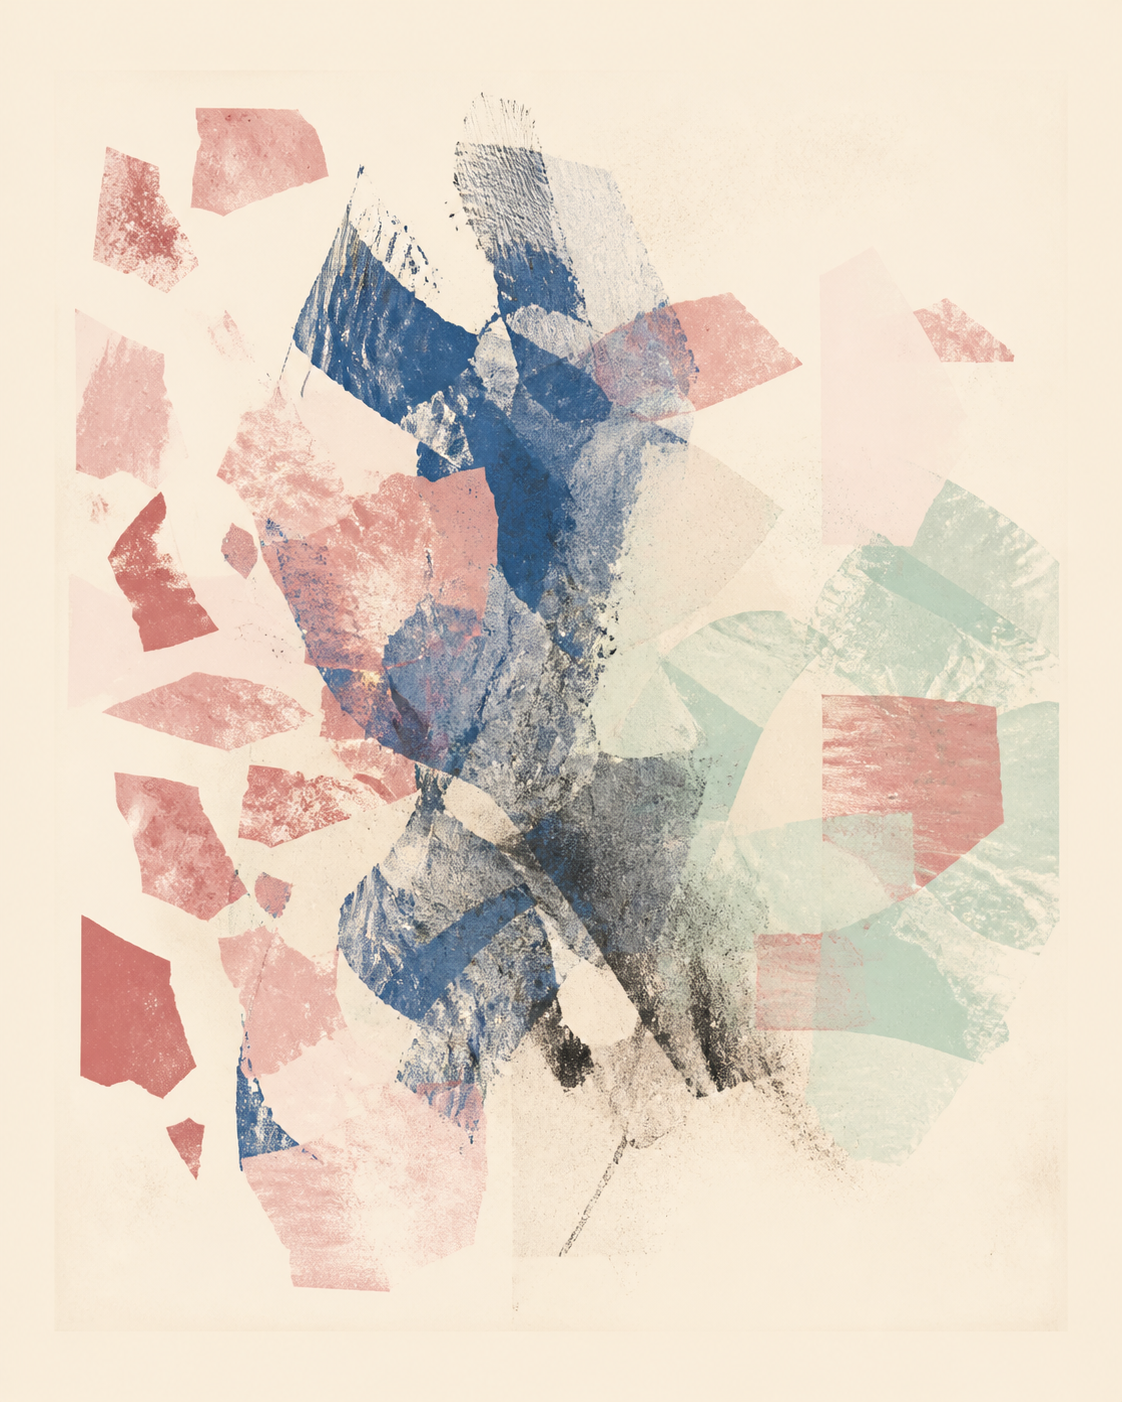
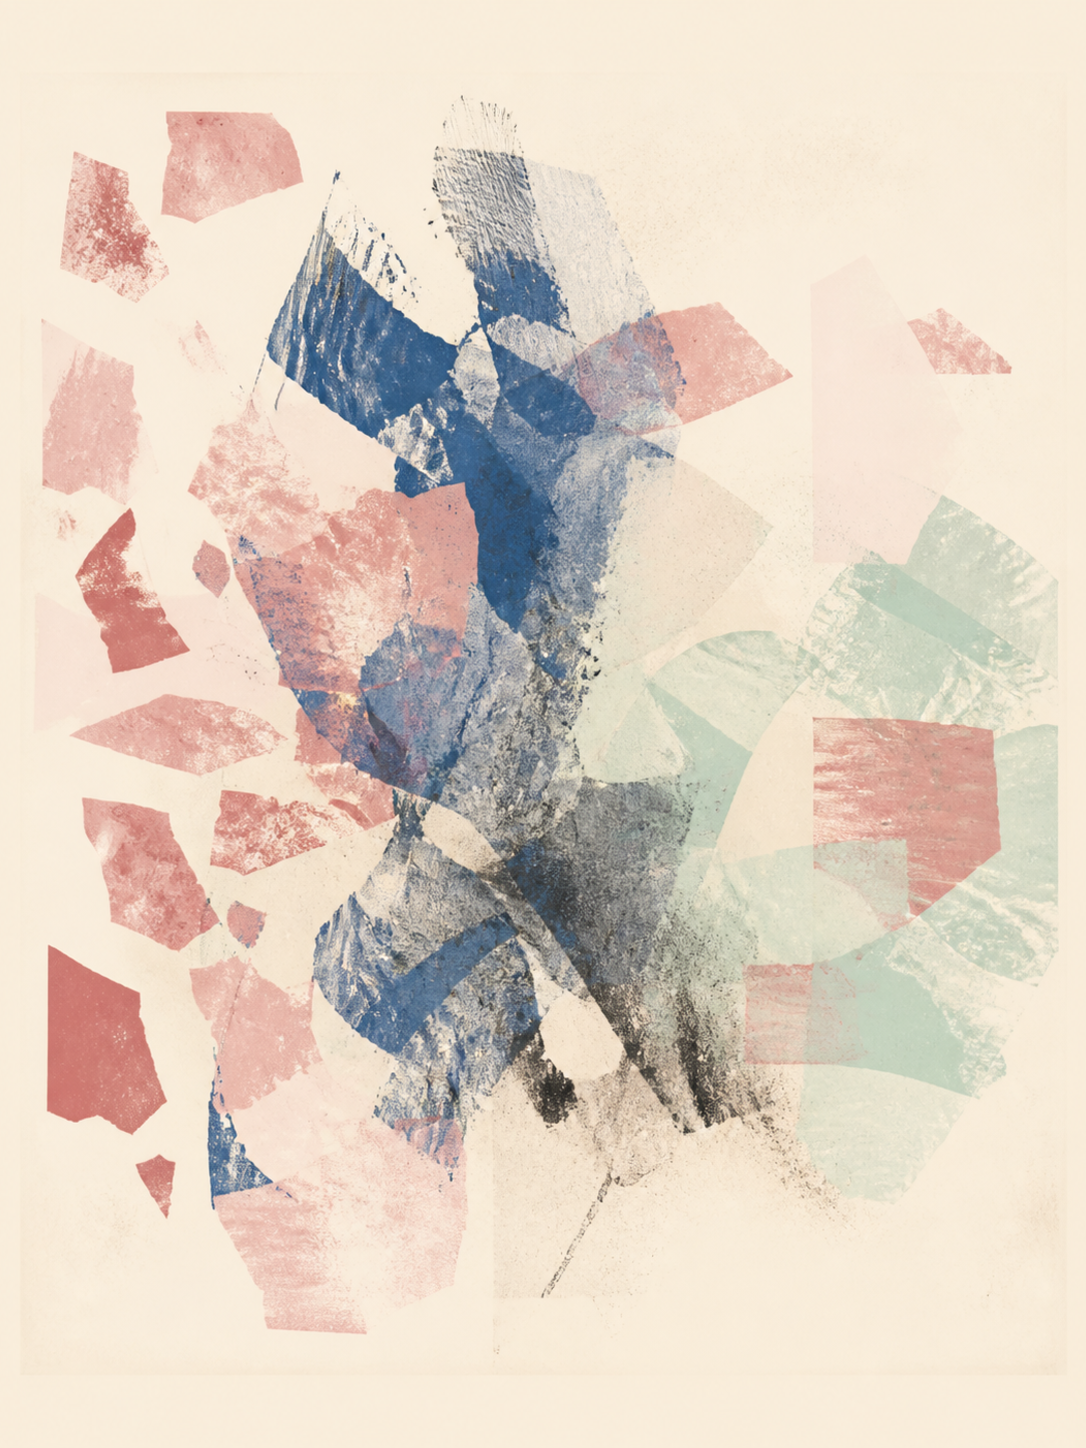
Use borderless 3:4 cover artwork so the site owns the card mat.

diff --git a/COVER_ART_AUDIT.md b/COVER_ART_AUDIT.md
@@ -20,16 +20,16 @@ These three should replace the generated research covers and serve as the visual
 
 ## Asset-format correction
 
-The three gold references are approximately 4:5 full-card compositions (`1122 × 1402`) and already include a quiet outer margin. The generated batch is 3:4 inner artwork (`1086 × 1448`) with no mat.
+The three gold references are approximately 4:5 full-card compositions (`1122 × 1402`) and already include a quiet outer margin. The final portfolio assets should **not** preserve that margin. The final folder contains only borderless inner artwork, standardized to `1086 × 1448` (3:4).
 
-Use one convention across the website. Recommended convention:
+The website should own the framing deterministically:
 
-- Generate every final cover as a **4:5 full-card image**.
-- Include a quiet outer field or mat inside the image, approximately 7–9% of the width.
-- Display the image at 100% inside the website card.
-- Do not add a second CSS mat around it.
+- Load each borderless 3:4 artwork inside the 4:5 project-card element.
+- Apply the chosen outer mat color in CSS.
+- Apply one fixed inset, for example `background-size: 80% auto`, centered and non-repeating.
+- Keep borders/mats out of the PNGs so every card has exactly the same thickness.
 
-If the implementation instead keeps the existing “3:4 inner artwork inside a CSS mat” approach, crop the three gold references to their inner artwork first. Do not mix the two conventions.
+The gold references were cropped to their inner artwork before being placed in the final folder. Do not add a second baked-in border during future generations.
 
 ## Selection decision
 
@@ -57,7 +57,7 @@ Final tally: **3 generated writing covers selected, 9 generated writing covers r
 
 Use this prefix for every replacement image:
 
-> Create one original 4:5 portrait editorial cover artwork for a research and technology portfolio. The visual language must match the supplied gold references: sophisticated tactile abstraction, layered collage, screen-print or monoprint grain, translucent overlaps, scraped or rolled pigment, irregular repetition, subtle misregistration, and confident negative space. The article topic is semantic inspiration only; do not illustrate or explain its mechanism. Abstraction level 8.5/10: the image should remain compelling if the viewer cannot identify the topic without reading the title. Use one dominant visual gesture, a restrained palette of four or five colors, and enough large-scale contrast to read at approximately 220 × 275 px. Include a quiet outer field or mat occupying roughly 7–9% of the canvas width, as part of the image. No text, letters, numbers, formulas, logos, watermarks, photorealism, 3D rendering, glossy CGI, pixel art, stock iconography, or interface imagery.
+> Create one original borderless 3:4 portrait inner artwork for a research and technology portfolio, exported as an opaque PNG at approximately 1086×1448. The visual language must match the supplied gold references: sophisticated tactile abstraction, layered collage, screen-print or monoprint grain, translucent overlaps, scraped or rolled pigment, irregular repetition, subtle misregistration, and confident negative space. The article topic is semantic inspiration only; do not illustrate or explain its mechanism. Abstraction level 8.5/10: the image should remain compelling if the viewer cannot identify the topic without reading the title. Use one dominant visual gesture, a restrained palette of four or five colors, and enough large-scale contrast to read at approximately 220 × 295 px when inset by the website. Do not add any outer mat, border, frame, or quiet margin; let the artwork reach the canvas edges. No text, letters, numbers, formulas, logos, watermarks, photorealism, 3D rendering, glossy CGI, pixel art, stock iconography, or interface imagery.
 >
 > Forbidden diagram grammar: no arrows, connectors, flowcharts, pipelines, input/output layouts, boxes linked by lines, node graphs, process stages, dashboards, charts, timelines, explicit grids, device silhouettes, central hubs with branches, or literal visualizations of the article’s mechanism. Avoid crisp vector-infographic perfection. Prefer ambiguous material relationships, texture, rhythm, density, interruption, compression, diffusion, layering, and asymmetry.
 
